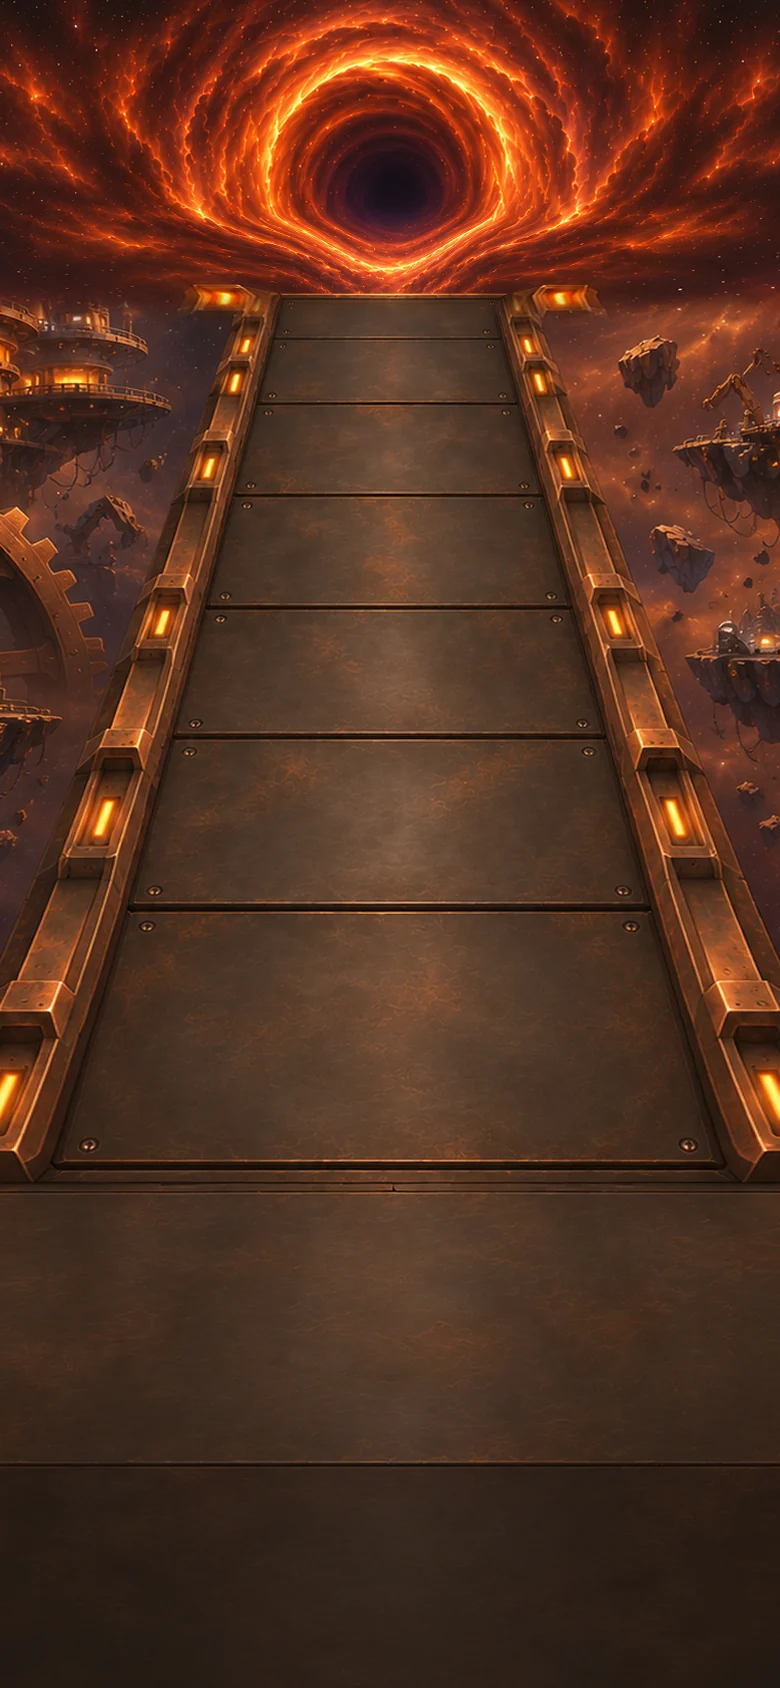
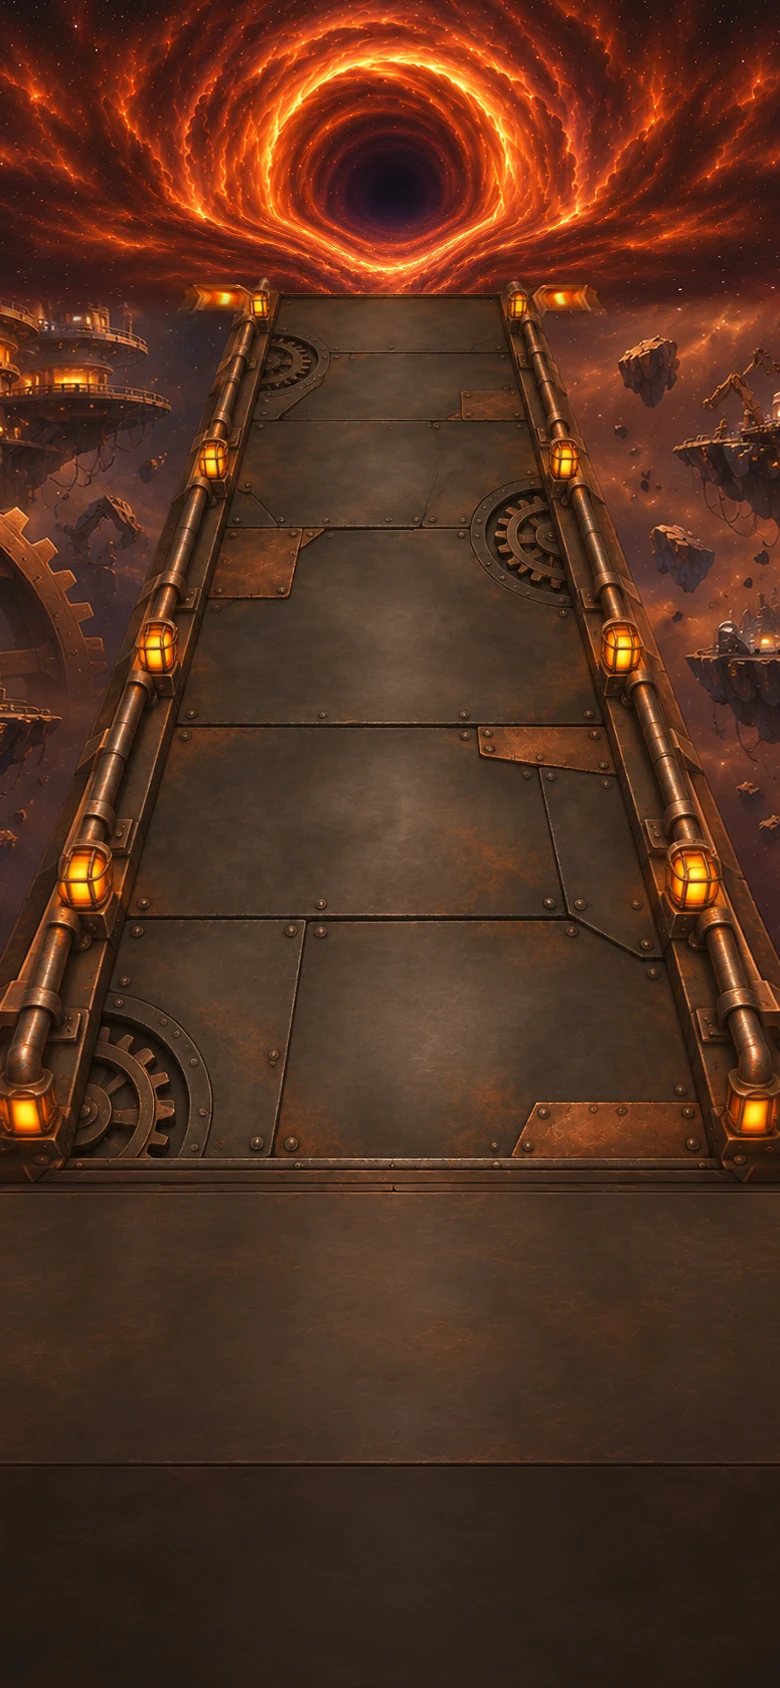
Version 0.10.11
Neue Brücken der Planeten 06–15 (Bruecken_06_15_v1) ins Spiel übernommen.

Claude-Session: https://claude.ai/code/session_01NwX5XbY2Qvumx1eymUyNiA

Changed region(s): [[0.0, 0.154, 1.0, 0.7085], [0.4923, 0.5853, 0.5231, 0.6161]]

diff --git a/Vorlage_Raw/AUFTRAEGE_REIHENFOLGE.md b/Vorlage_Raw/AUFTRAEGE_REIHENFOLGE.md
@@ -6,7 +6,7 @@ Bitte nacheinander abschicken, jeweils erst den nächsten, wenn der vorige gelie
 |---|---|---|---|---|
 | 1 | Ranglisten, Ligen, Spielerrahmen, Überleben, Gegnersuche (31 Bilder) | `RANGLISTEN_FUER_CHATGPT.md` | keine | **geliefert und geprüft 16.11.2026** (`Ranglisten_v1`), in den Wettbewerb-Mockups eingesetzt |
 | 1c | Arenen neu: Bahn flach auf dem Arenaboden, Tribünen ringsum, Tunnel für die Gegner | `ARENEN_V2_FUER_CHATGPT.md` | keine | **geliefert (Arena_Karten_v2), im Spiel seit 0.10.7** |
-| 2 | Brücken der Planeten 06–15 neu gestalten (bisher überall dieselbe schlichte Brücke) | `BRUECKEN_06_15_FUER_CHATGPT.md` | keine | **als Nächstes, 17.11.2026** |
+| 2 | Brücken der Planeten 06–15 neu gestalten (bisher überall dieselbe schlichte Brücke) | `BRUECKEN_06_15_FUER_CHATGPT.md` | keine | **geliefert 17.11.2026, im Spiel seit 0.10.11** (Dschungelmond, Kristallplanet, Ozeanwelt kaum verändert) |
 | 3 | Quallenflieger: fehlerhaftes Modell mit acht Armen nachreichen | `Monster_Roh/QUALLE_FEHLMODELL_FUER_CHATGPT.md` | keine | – (vom Nutzer am 11.11.2026 freigegeben) |
 | 4 | Kartenmotive für sieben Symbiosen und das Meister-Abzeichen | `SYMBIOSE_MEISTER_MOTIVE_FUER_CHATGPT.md` | keine | Nutzer gibt Mockups „Karten-Meister“ und „Karten-Symbiose“ frei |
 | 4b | Fähigkeiten der Champions (19) und fehlende Kartenlogos (4) im neuen Stil | `TALENTE_LOGOS_FUER_CHATGPT.md` | keine | bestätigt am 16.11.2026, kann raus |
